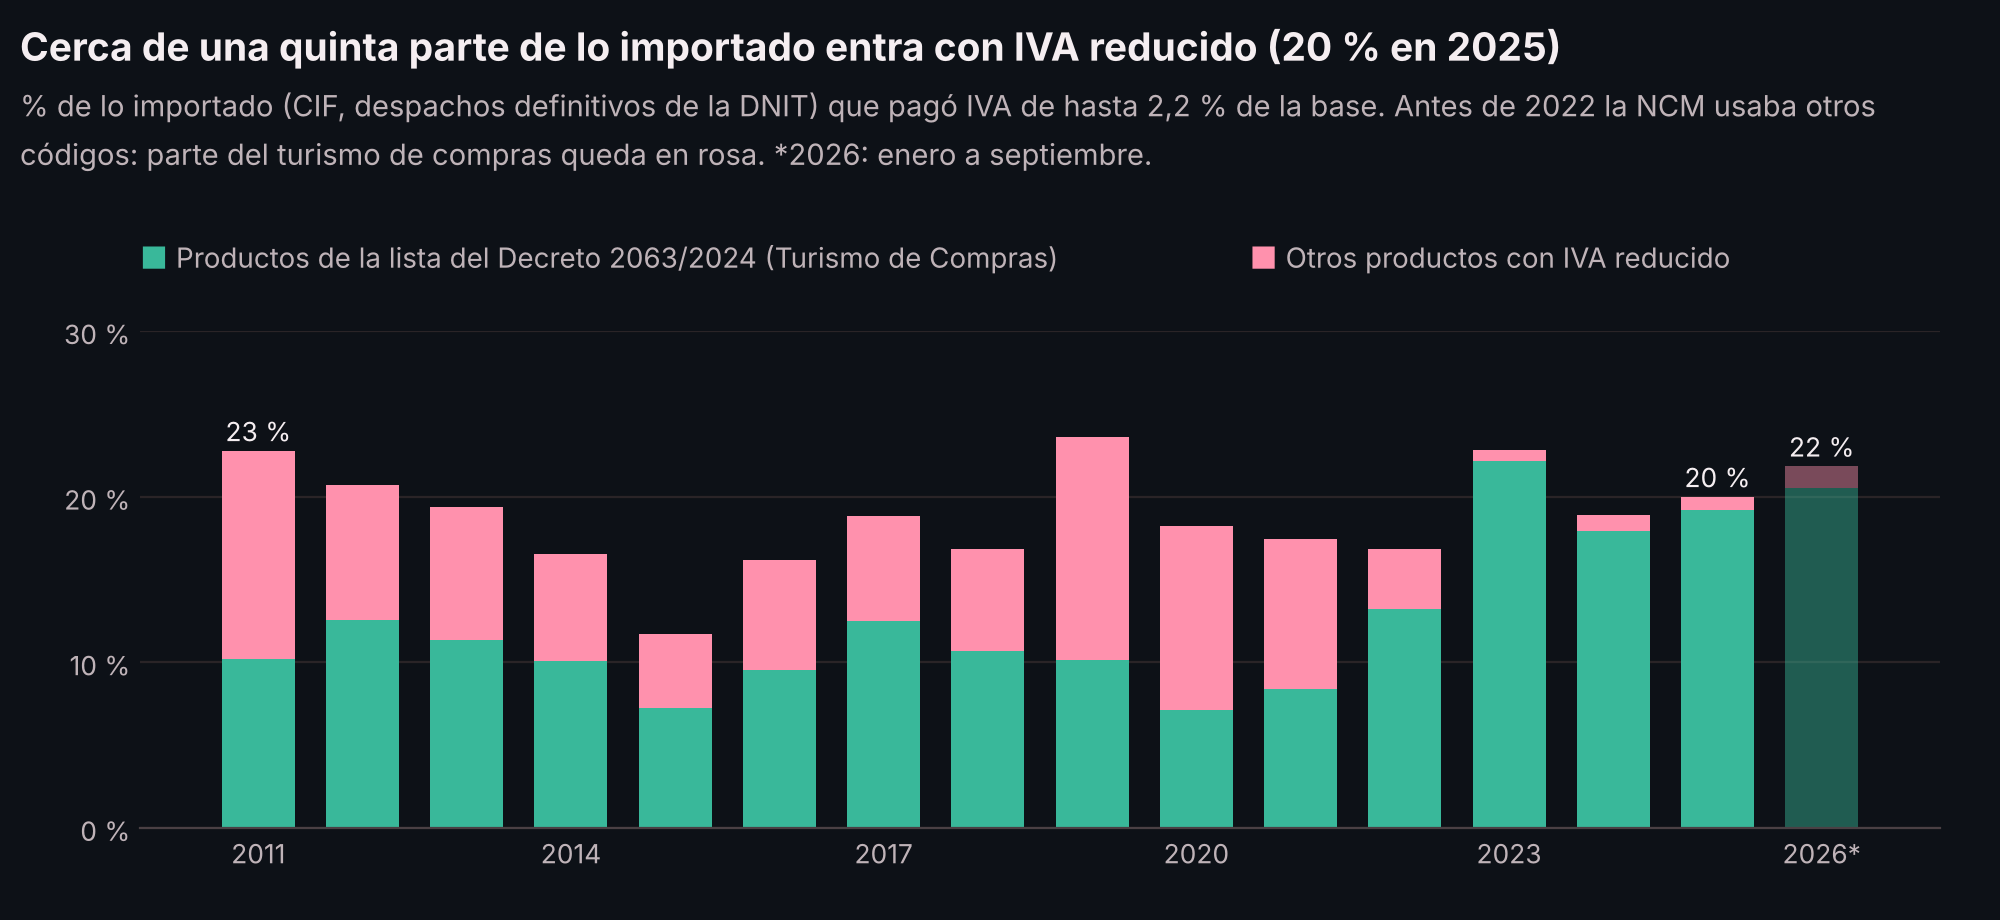
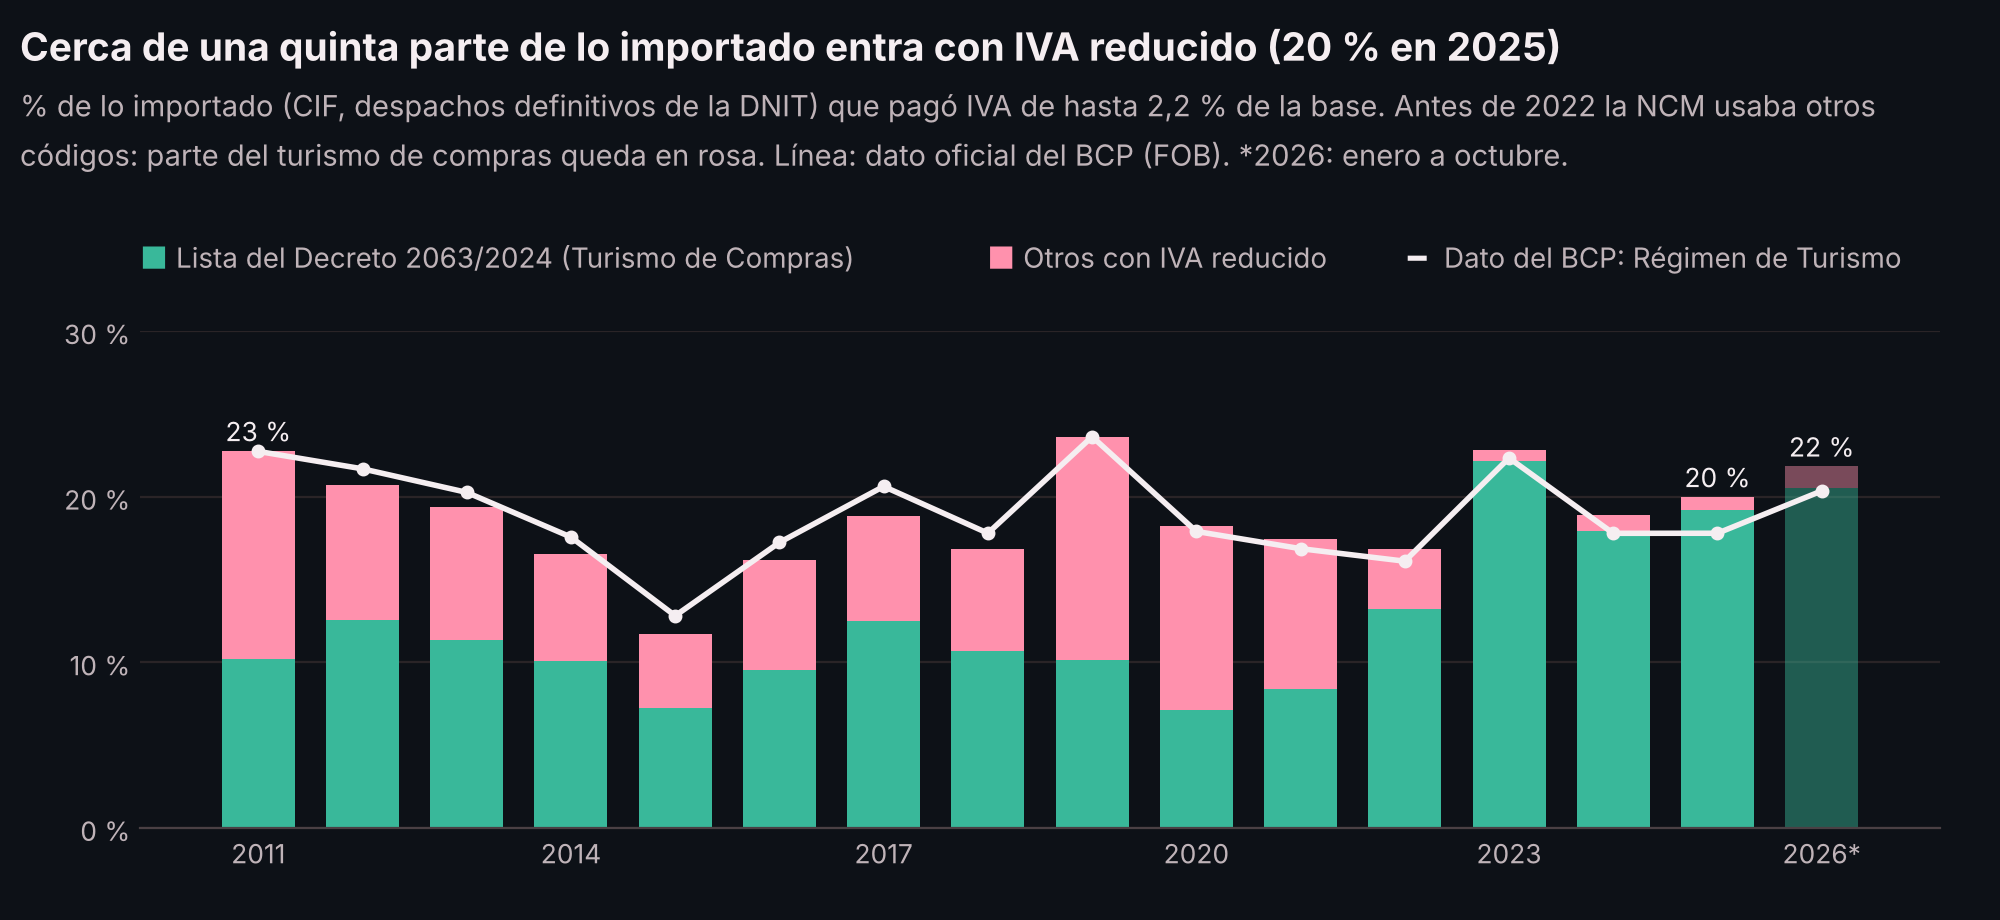
Aduana: Turismo de Compras controlado con el Anexo Estadístico del BCP; datos hasta octubre de 2026

diff --git a/docs/aduana.html b/docs/aduana.html
@@ -140,7 +140,7 @@ footer { margin-top: 48px; padding: 28px 0 48px; border-top: 1px solid var(--lin
       <a class="btn primary" href="./">Volver a comercio por acuerdo</a>
       <a class="btn" href="#descargas">Descargar datos</a>
     </div>
-    <p class="note corte">Datos de la DNIT hasta septiembre de 2026. La DNIT puede corregir despachos después (por declaraciones tardías o rectificaciones): los archivos de esta página son una copia a esa fecha y se regeneran con cada actualización.</p>
+    <p class="note corte">Datos de la DNIT hasta octubre de 2026. La DNIT puede corregir despachos después (por declaraciones tardías o rectificaciones): los archivos de esta página son una copia a esa fecha y se regeneran con cada actualización.</p>
   </div>
 </header>
 
@@ -178,9 +178,9 @@ footer { margin-top: 48px; padding: 28px 0 48px; border-top: 1px solid var(--lin
     <div class="card">
       <picture>
         <source media="(prefers-color-scheme: dark)" srcset="img/turismo_compras_dark.png">
-        <img src="img/turismo_compras_light.png" alt="Gráfico de barras apiladas, 2011 a 2026: parte de lo importado que pagó IVA reducido, entre 12 % y 24 % cada año, alrededor de 20 % desde 2023" loading="lazy">
+        <img src="img/turismo_compras_light.png" alt="Gráfico de barras apiladas, 2011 a 2026: parte de lo importado que pagó IVA reducido, entre 12 % y 24 % cada año, alrededor de 20 % desde 2023, con una línea del BCP que sigue casi los mismos valores" loading="lazy">
       </picture>
-      <p class="note">El IVA reducido para estos productos no empezó en 2024: el Decreto 2063/2024 reemplazó a un régimen anterior parecido (Decreto 1931/2019, y antes otros). En verde, los códigos de la lista actual; antes de 2022 los mismos productos tenían otros códigos y caen en rosa, por eso la división cambia y el total no. Datos: <a href="datos/turismo_compras_por_anio.csv" download>CSV</a>. Código: python/turismo_compras_serie.py. Fuente: elaboración propia con datos abiertos de la DNIT.</p>
+      <p class="note">El IVA reducido para estos productos no empezó en 2024: el Decreto 2063/2024 reemplazó a un régimen anterior parecido (Decreto 1931/2019, y antes otros). En verde, los códigos de la lista actual; antes de 2022 los mismos productos tenían otros códigos y caen en rosa, por eso la división cambia y el total no. <strong>Control con el dato oficial:</strong> el Anexo Estadístico del BCP (Cuadro 52a) publica la importación bajo el Régimen de Turismo, y su porcentaje queda a 1 o 2 puntos del total de las barras en casi todos los años (por ejemplo, 2019: 23,6 % en los dos; 2023: 22,3 % y 22,8 %). Datos: <a href="datos/turismo_bcp_por_anio.csv" download>CSV del BCP</a> y <a href="datos/turismo_compras_por_anio.csv" download>CSV</a>. Código: python/turismo_compras_serie.py y python/leer_anexo_bcp.py. Fuente: elaboración propia con datos abiertos de la DNIT.</p>
     </div>
   </section>
 

diff --git a/docs/figuras_turismo.py b/docs/figuras_turismo.py
@@ -27,6 +27,11 @@ def turismo():
     tot = d["PCT_TURISMO_COMPRAS"] + d["PCT_IVA_REDUCIDO_OTRO"]
     comp = d[d["MESES"] == 12]
     ult = comp.iloc[-1]
+    bcp = pd.read_csv(DATOS / "turismo_bcp_por_anio.csv", encoding="utf-8-sig")
+    bcp = bcp[bcp["AÑO"].between(d["AÑO"].min(), d["AÑO"].max())]
+    mes = ["", "enero", "febrero", "marzo", "abril", "mayo", "junio", "julio", "agosto", "septiembre", "octubre", "noviembre"]
+    parcial = d[d["MESES"] < 12]
+    nota = f" *{int(parcial['AÑO'].iloc[0])}: enero a {mes[int(parcial['MESES'].iloc[0])]}." if len(parcial) else ""
     for modo, t in TEMAS.items():
         fig, ax = plt.subplots(figsize=(10, 4.6))
         fig.patch.set_facecolor(FONDO[modo])
@@ -37,15 +42,17 @@ def turismo():
             ax.bar(r["AÑO"], r["PCT_IVA_REDUCIDO_OTRO"], bottom=r["PCT_TURISMO_COMPRAS"], color=t["rosa"], alpha=alfa[i], width=0.7)
             if r["AÑO"] in (d["AÑO"].min(), comp["AÑO"].max()) or r["MESES"] < 12:
                 ax.text(r["AÑO"], tot[i] + 0.6, coma(tot[i], 0) + " %", ha="center", fontsize=9.5, color=t["texto"])
+        ax.plot(bcp["AÑO"], bcp["PCT_REGIMEN_TURISMO"], color=t["texto"], linewidth=2, marker="o", markersize=4)
         ax.set_ylim(0, 30)
         ax.set_yticks([0, 10, 20, 30], ["0 %", "10 %", "20 %", "30 %"])
         ax.set_xticks(list(d["AÑO"])[::3], [str(a) if m == 12 else f"{a}*" for a, m in zip(d["AÑO"][::3], d["MESES"][::3])])
         estilo(ax, t)
         titulo(fig, t, f"Cerca de una quinta parte de lo importado entra con IVA reducido ({coma(tot[ult.name], 0)} % en {int(ult['AÑO'])})",
                "% de lo importado (CIF, despachos definitivos de la DNIT) que pagó IVA de hasta 2,2 % de la base. "
-               "Antes de 2022 la NCM usaba otros códigos: parte del turismo de compras queda en rosa. *2026: enero a septiembre.")
-        leyenda(fig, t, 0.07, 0.72, [("Productos de la lista del Decreto 2063/2024 (Turismo de Compras)", t["verde"], "■"),
-                                     ("Otros productos con IVA reducido", t["rosa"], "■")])
+               "Antes de 2022 la NCM usaba otros códigos: parte del turismo de compras queda en rosa. Línea: dato oficial del BCP (FOB)." + nota)
+        leyenda(fig, t, 0.07, 0.72, [("Lista del Decreto 2063/2024 (Turismo de Compras)", t["verde"], "■"),
+                                     ("Otros con IVA reducido", t["rosa"], "■"),
+                                     ("Dato del BCP: Régimen de Turismo", t["texto"], "━")])
         guardar(fig, "turismo_compras", modo)
 
 

diff --git a/python/leer_anexo_bcp.py b/python/leer_anexo_bcp.py
@@ -1,0 +1,38 @@
+"""Importaciones bajo el Régimen de Turismo según el Anexo Estadístico del BCP (Cuadro 52a), por año.
+
+Uso (desde la raíz del repositorio):
+    python python/leer_anexo_bcp.py "Anexo_Estadístico_del_Informe_Económico_13_11_2026_.xlsx"
+
+El cuadro trae, por mes, tres columnas: importación registrada, importación bajo el Régimen de Turismo e
+importación para consumo (miles de USD FOB). Escribe docs/datos/turismo_bcp_por_anio.csv.
+"""
+import datetime
+import sys
+from collections import defaultdict
+from pathlib import Path
+
+import openpyxl
+import pandas as pd
+
+RAIZ = Path(__file__).resolve().parent.parent
+
+
+def main(ruta):
+    wb = openpyxl.load_workbook(ruta, read_only=True)
+    filas = list(wb["Cuadro 52a"].iter_rows(values_only=True))
+    fechas = next(r for r in filas if sum(isinstance(c, datetime.datetime) for c in r) > 5)
+    total = next(r for r in filas if r[0] and str(r[0]).strip() == "Total")
+    acc = defaultdict(lambda: [0.0, 0.0, 0])
+    for j, f in enumerate(fechas):
+        if isinstance(f, datetime.datetime) and isinstance(total[j], (int, float)):
+            acc[f.year][0] += total[j]
+            acc[f.year][1] += total[j + 1] or 0
+            acc[f.year][2] += 1
+    d = pd.DataFrame([{"AÑO": a, "MESES": v[2], "IMPORTACION_REGISTRADA_USD": v[0] * 1e3, "REGIMEN_TURISMO_USD": v[1] * 1e3,
+                       "PCT_REGIMEN_TURISMO": 100 * v[1] / v[0]} for a, v in sorted(acc.items())])
+    d.to_csv(RAIZ / "docs" / "datos" / "turismo_bcp_por_anio.csv", index=False, encoding="utf-8-sig")
+    print(d.tail(4).to_string(index=False))
+
+
+if __name__ == "__main__":
+    main(sys.argv[1])

diff --git a/python/turismo_compras_serie.py b/python/turismo_compras_serie.py
@@ -22,7 +22,8 @@ CEL = "85171"   # 8517.12 (hasta 2022) y 8517.13 (desde 2022): teléfonos celula
 
 
 def main():
-    meses = pd.read_csv(DATOS / "utilizacion_por_anio.csv").set_index("AÑO")["MESES"]
+    # Meses de cada archivo anual (los mismos que usa importaciones_ventaja.py)
+    meses = pd.read_csv(DATOS / "importaciones_acuerdo_ventaja.csv", encoding="utf-8-sig").set_index("AÑO")["MESES"]
     filas, cel = [], []
     for f in sorted(ANUAL.glob("DNIT_*_importacion.xlsx")):
         a = int(f.stem.split("_")[1])
